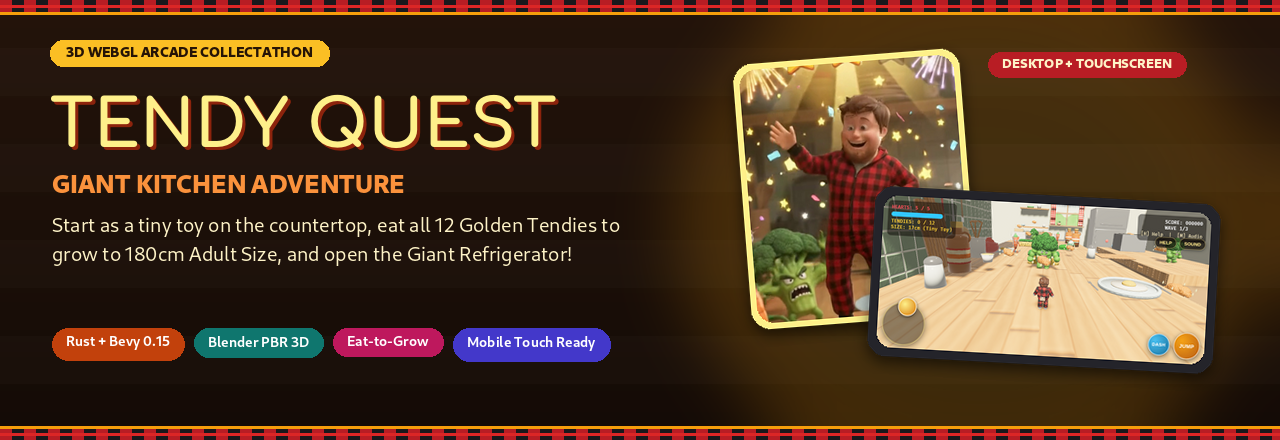
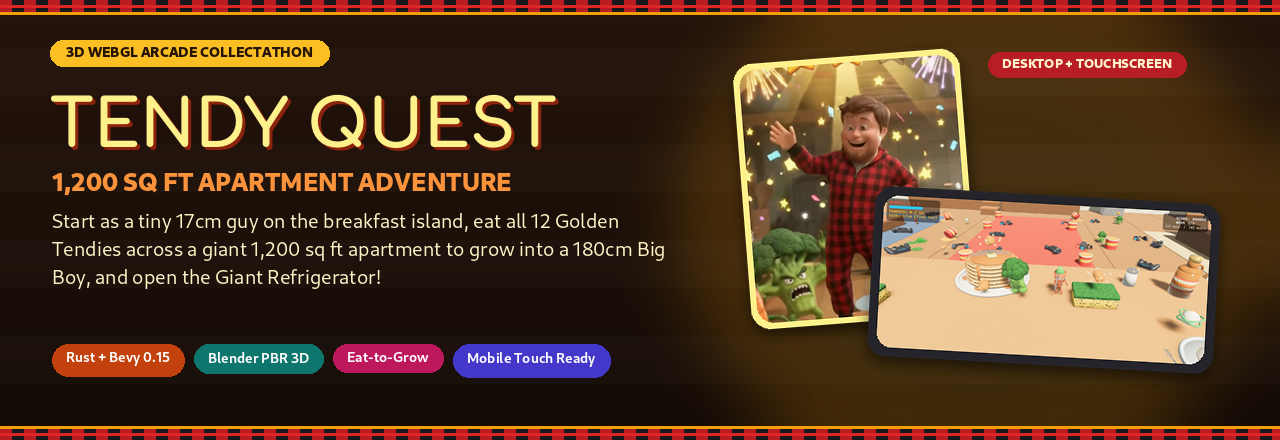
Reorganize README around eat-to-grow gameplay and add spoiler-free city preview

diff --git a/blender/build_readme_graphics.py b/blender/build_readme_graphics.py
@@ -13,9 +13,10 @@ ROOT = Path(__file__).resolve().parent.parent
 OUT_DIR = ROOT / "assets" / "readme"
 VIDEO_PATH = ROOT / "assets" / "video" / "gemini_generated_video_23f12819.mp4"
 
-SHOT_DESKTOP = Path("/tmp/tendy_live10_desktop.png")
-SHOT_WALKING = Path("/tmp/tendy_live10_walking2.png")
-SHOT_PORTRAIT = Path("/tmp/tendy_live10_mobile_port.png")
+SHOT_DESKTOP = Path("/home/tpeters/.gemini/antigravity-cli/brain/a57795ae-ab44-4094-bfb9-bebac1762ce7/scratch/desktop_playing.png")
+SHOT_WALKING = Path("/home/tpeters/.gemini/antigravity-cli/brain/a57795ae-ab44-4094-bfb9-bebac1762ce7/scratch/desktop_apartment_floor.png")
+SHOT_PORTRAIT = Path("/home/tpeters/.gemini/antigravity-cli/brain/a57795ae-ab44-4094-bfb9-bebac1762ce7/scratch/mobile_pixel11_playing.png")
+SHOT_CITY = Path("/home/tpeters/.gemini/antigravity-cli/brain/a57795ae-ab44-4094-bfb9-bebac1762ce7/scratch/desktop_city_aerial.png")
 
 FONT_DISPLAY = "/usr/share/fonts/aajohan-comfortaa-fonts/Comfortaa-Bold.otf"
 FONT_EXTRA = "/usr/share/fonts/abattis-cantarell-fonts/Cantarell-ExtraBold.otf"
@@ -30,7 +31,7 @@ def font(path: str, size: int) -> ImageFont.FreeTypeFont:
 def verify_inputs() -> None:
     missing = [
         str(p)
-        for p in [VIDEO_PATH, SHOT_DESKTOP, SHOT_WALKING, SHOT_PORTRAIT]
+        for p in [VIDEO_PATH, SHOT_DESKTOP, SHOT_WALKING, SHOT_PORTRAIT, SHOT_CITY]
         if not p.exists()
     ]
     if missing:
@@ -280,18 +281,19 @@ def build_hero_banner(v_hero: Image.Image) -> None:
     # Title with warm crisp drop shadow
     draw.text((53, 91), "TENDY QUEST", font=f_title, fill=(140, 35, 12, 255))
     draw.text((50, 88), "TENDY QUEST", font=f_title, fill=(254, 240, 138, 255))
-    draw.text((52, 168), "GIANT KITCHEN ADVENTURE", font=f_sub, fill=(251, 146, 60, 255))
+    draw.text((52, 166), "1,200 SQ FT APARTMENT ADVENTURE", font=f_sub, fill=(251, 146, 60, 255))
 
     tagline = (
-        "Start as a tiny toy on the countertop, eat all 12 Golden Tendies to grow to "
-        "180cm Adult Size, and open the Giant Refrigerator!"
+        "Start as a tiny 17cm guy on the breakfast island, eat all 12 Golden Tendies "
+        "across a giant 1,200 sq ft apartment to grow into a 180cm Big Boy, and open "
+        "the Giant Refrigerator!"
     )
-    ty = 212
-    for line in wrap_lines(draw, tagline, f_body, 610):
+    ty = 208
+    for line in wrap_lines(draw, tagline, f_body, 625):
         draw.text((52, ty), line, font=f_body, fill=(254, 243, 199, 245))
-        ty += 29
+        ty += 28
 
-    # Feature pills cleanly arranged in 2 balanced rows or 1 row if fitting
+    # Feature pills cleanly arranged in 1 row
     pills = [
         ("Rust + Bevy 0.15", (194, 65, 12, 245)),
         ("Blender PBR 3D", (15, 118, 110, 245)),
@@ -299,7 +301,7 @@ def build_hero_banner(v_hero: Image.Image) -> None:
         ("Mobile Touch Ready", (67, 56, 202, 245)),
     ]
     px_cur = 52
-    py_cur = 328
+    py_cur = 344
     for label, col in pills:
         pw = draw_pill(
             draw,
@@ -436,9 +438,9 @@ def build_gameplay_showcase() -> None:
     draw.rounded_rectangle([1130, 101, 1168, 106], radius=3, fill=(82, 82, 92, 255))
 
     captions = [
-        (274, "Desktop Browser", "Mouse 3D Look, WASD, Jump & Belly Dash"),
-        (782, "Mobile Landscape", "Virtual Stick, Swipe Look & DASH / JUMP"),
-        (1148, "Mobile Portrait", "Responsive Compact HUD View"),
+        (274, "Desktop Apartment View", "Mouse 3D Look, Scroll Zoom & Belly Dash"),
+        (782, "1,200 sq ft Open Floor", "Hunt Tendies Around Cheese Cups & Controllers"),
+        (1140, "Mobile Touch Portrait", "Compact HUD & Virtual Touch Controls"),
     ]
     for cx, c_title, c_sub in captions:
         b1 = draw.textbbox((0, 0), c_title, font=f_cap_title)
@@ -515,21 +517,21 @@ def build_cast_and_powerups(
     f_name = font(FONT_DISPLAY, 21)
     f_desc = font(FONT_REG, 15)
 
-    title = "MEET THE KITCHEN CREW, POWER-UPS & VEGGIE MONSTERS"
+    title = "MEET STAN, SAUCE POWER-UPS & VEGGIE MONSTERS"
     tb = draw.textbbox((0, 0), title, font=f_hdr)
     draw.text(((W - (tb[2] - tb[0])) // 2, 20), title, font=f_hdr, fill=(253, 230, 138, 255))
 
-    sub = "Know your allies, tasty buffs, and grumpy healthy-food adversaries on the countertop"
+    sub = "Eat crispy tenders to grow into a 180cm Big Boy while dodging grumpy greens"
     sb = draw.textbbox((0, 0), sub, font=f_sub)
     draw.text(((W - (sb[2] - sb[0])) // 2, 55), sub, font=f_sub, fill=(254, 215, 170, 225))
 
     cards = [
         {
-            "name": "Plaid Hero",
+            "name": "Stan (Plaid Hero)",
             "role": "HERO • PLAYABLE",
             "accent": (220, 38, 38, 255),
             "role_bg": (184, 29, 36, 255),
-            "desc": "Starts tiny and grows up to 180cm Adult Size! Double-Jump, i-frame Belly Dash, and bowl veggies aside.",
+            "desc": "Starts as a tiny 17cm guy and eats tendies to grow into a 180cm Big Boy! Double-Jump, Belly Dash, and bowl veggies aside.",
             "img": v_hero.crop((185, 435, 505, 835)),
         },
         {
@@ -537,7 +539,7 @@ def build_cast_and_powerups(
             "role": "COLLECTIBLE",
             "accent": (245, 158, 11, 255),
             "role_bg": (180, 83, 9, 255),
-            "desc": "12 crispy tenders across the giant kitchen (+150 pts each). Grow to 180cm & open the Giant Fridge (+5000 pts)!",
+            "desc": "12 crispy tenders across the 1,200 sq ft apartment (+150 pts each). Eat them all to become a Big Boy & open the Giant Fridge!",
             "img": v_tendy_slime.crop((240, 175, 500, 445)),
         },
         {
@@ -631,6 +633,15 @@ def build_cast_and_powerups(
     print(f"Generated {out.name}")
 
 
+def build_city_preview() -> None:
+    """Crop a spoiler-free skyline preview from the city screenshot (no subtitle/UI spoilers)."""
+    im_city = Image.open(SHOT_CITY).convert("RGB")
+    cropped = im_city.crop((0, 0, min(1280, im_city.width), min(515, im_city.height)))
+    out = OUT_DIR / "city_preview.png"
+    cropped.save(out, quality=95)
+    print(f"Generated {out.name} ({cropped.size[0]}x{cropped.size[1]})")
+
+
 def main() -> int:
     verify_inputs()
     OUT_DIR.mkdir(parents=True, exist_ok=True)
@@ -647,6 +658,7 @@ def main() -> int:
         build_hero_banner(v_hero)
         build_gameplay_showcase()
         build_cast_and_powerups(v_broccoli, v_carrot, v_tendy_slime, v_hero)
+        build_city_preview()
 
     print("All README assets generated successfully in", OUT_DIR)
     return 0

diff --git a/README.md b/README.md
@@ -1,5 +1,5 @@
 <p align="center">
-  <img src="assets/readme/hero_banner.png" alt="Tendy Quest: Giant Kitchen Adventure" width="100%" />
+  <img src="assets/readme/hero_banner.png" alt="Tendy Quest: 1,200 Sq Ft Apartment Adventure" width="100%" />
 </p>
 
 <p align="center">
@@ -18,60 +18,84 @@
 
 ---
 
-## About the Game
+## Welcome to Tendy Quest! (Eat Tendies, Grow Into a Big Boy)
 
-Start shrunk down to miniature **17cm Tiny Toy** size (`0.55` scale) on a colossal **Giant Kitchen** countertop as the **Plaid Hero**! Armed with a red-and-black buffalo plaid onesie, acrobatic **Double-Jumps**, and an invulnerable **Belly Dash**, your mission is to eat all **12 Golden Tendies** across a multi-scale Katamari-style room—climbing from countertops and the giant toaster up to the shelf, across the cutting-board bridge to the center island, and down stepping stools, dining chair, and table to the **kitchen floor**.
+Start shrunk down to miniature **17cm Tiny Toy** size (`0.55` scale) right next to a stack of pancakes on the **Breakfast Island** of a massive **1,200 sq ft Open-Concept Apartment**! As **Stan (the Plaid Hero)**, you've got cozy red-and-black buffalo plaid pajamas, springy **Double-Jumps**, a speedy **Belly Dash**, and one simple mission: **eat all 12 Golden Tendies and grow up to be a Big Boy!**
 
-Each Golden Tendy physically grows your hero taller, faster, and stronger—scaling jump height, pickup reach, and camera pullback all the way up to **180cm Full Adult Size** (`6.0` scale), where you can bowl Veggie Monsters straight out of your path and pull open the towering **Giant Refrigerator** on the floor!
+Every crispy chicken tender you gobble down physically stretches Stan taller, faster, and stronger—scaling jump height, pickup reach, and camera pullback step by step until you hit **180cm Full Adult Size** (`6.0` scale). Once you're a full-grown Big Boy, grumpy veggies bounce right out of your way and you're finally tall enough to swing open the **Giant Refrigerator**!
 
 <table>
   <tr>
     <td valign="top">
-      <h3>Core Gameplay Loop</h3>
+      <h3>Core Eat-to-Grow Gameplay</h3>
       <ul>
-        <li><strong>Eat-to-Grow Across 12 Golden Tendies:</strong> Hunt down floating crispy tenders across the prep countertop, toaster &amp; upper shelf, island bridge, stools, dining table &amp; chair, and floor (<code>+150 pts</code> each, <code>+1,000 pts</code> bonus when reaching <code>12/12</code>).</li>
-        <li><strong>Scale Up &amp; Turn the Tables:</strong> Once your hero grows past <code>2.2</code> scale, you shrug off Kale Slime slowdowns and bowl over Broccoli Brutes &amp; Carrot Lancers on contact (<code>+250 pts</code>)!</li>
-        <li><strong>Open the Giant Refrigerator:</strong> Reach <strong>180cm Adult Size</strong> (<code>12/12</code> Tendies), drop down to the kitchen floor, and approach the Giant Fridge handle to swing its stocked door wide open (<code>+5,000 pts</code> Stage Clear!).</li>
-        <li><strong>Survive 3 Escalating Waves:</strong> Reinforcements arrive every 16 seconds across the countertop, center island, and kitchen floor.</li>
-        <li><strong>Instant Browser &amp; Mobile Play:</strong> Compiles to Rust + WebAssembly + WebGL2 with responsive <code>100dvh</code> portrait/landscape HUD and multi-touch controls tested on Pixel 11 viewports.</li>
+        <li><strong>Hunt 12 Golden Tendies Across 1,200 Sq Ft:</strong> Leap around the South Breakfast Island, bound down to the sprawling hardwood floor, weave through the Living Room and Dining Area, and climb back up the North Kitchen Countertop (<code>+150 pts</code> per tendy, plus a <code>+1,000 pts</code> Big Boy bonus at <code>12/12</code>).</li>
+        <li><strong>Grow From Little Guy to 180cm Big Boy:</strong> Watch Stan level up from <strong>Tiny Toy</strong> (<code>0–3</code> Tendies) &rarr; <strong>Counter Climber</strong> (<code>4–7</code>) &rarr; <strong>Kid Size</strong> (<code>8–11</code>) &rarr; <strong>180cm Big Boy</strong> (<code>12/12</code>).</li>
+        <li><strong>Turn the Tables on Veggies:</strong> Once Stan grows past <code>2.2</code> scale, he shrugs off sticky Kale Slime puddles and bowls Broccoli Brutes &amp; Carrot Lancers right across the room on contact (<code>+250 pts</code>)!</li>
+        <li><strong>Open the Giant Refrigerator:</strong> At full <strong>180cm</strong> height, walk right up to the towering fridge on the north side of the apartment and yank its door wide open (<code>+5,000 pts</code>)!</li>
+        <li><strong>Navigate Apartment Clutter &amp; 3 Veggie Waves:</strong> Hop over scattered <strong>Ricos Nacho Cheese Cups</strong>, wireless <strong>Game Controllers</strong>, and floor <strong>Headphones</strong> while veggie reinforcements spawn up to Wave 3 every 16 seconds.</li>
       </ul>
     </td>
     <td width="250" align="center" valign="middle">
-      <img src="assets/readme/kitchen_dance.gif" alt="Plaid Hero dashing past Broccoli Brutes and Carrot Lancers in the Giant Kitchen" width="230" />
+      <img src="assets/readme/kitchen_dance.gif" alt="Stan celebrating and dodging veggies in his plaid pajamas" width="230" />
       <br/>
-      <sub><em>Inspired by the Giant Kitchen concept video</em></sub>
+      <sub><em>Stan gearing up for snack time</em></sub>
     </td>
   </tr>
 </table>
 
+### Growth Milestones
+
+| Tendies Eaten | Size Tier | Stan's Height | What Changes |
+| :---: | :--- | :--- | :--- |
+| `0 – 3` | **Tiny Toy** | Starts at **17cm** (`0.55` scale) | Cozy bite-sized adventurer dodging towering forks and giant pancakes. |
+| `4 – 7` | **Counter Climber** | Climbing upward | Faster stride, higher jumps, and wider reach across apartment furniture. |
+| `8 – 11` | **Kid Size** | Past `2.2` scale | Sticky Kale Slime puddles stop slowing you down, and veggies get knocked flying! |
+| `12 / 12` | **ADULT - OPEN FRIDGE!** | **180cm Big Boy** (`6.0` scale) | Full grown! Tall enough to reach the handle on the **Giant Refrigerator**. |
+
 ---
 
-## Screenshots — Desktop & Mobile Touch
+## Play Anywhere — Desktop & Mobile Touch
 
-Play seamlessly on a widescreen desktop browser or straight from your phone's touchscreen with zero downloads:
+Hop straight in with zero downloads! Compiled to Rust + WebAssembly + WebGL2 with responsive `100dvh` portrait/landscape layouts, scroll-wheel zoom on desktop, and touch controls tested on Pixel 11 phones:
 
 <p align="center">
-  <img src="assets/readme/gameplay_showcase.png" alt="Tendy Quest running on Desktop Browser, Mobile Landscape, and Mobile Portrait" width="100%" />
+  <img src="assets/readme/gameplay_showcase.png" alt="Tendy Quest running on Desktop Browser, 1,200 sq ft Open Floor, and Mobile Portrait" width="100%" />
 </p>
 
 ---
 
-## Characters, Power-Ups & Veggie Monsters
+## Meet Stan, Sauce Buffs & the Grumpy Veggies
 
 <p align="center">
-  <img src="assets/readme/cast_and_powerups.png" alt="Meet the Kitchen Crew, Power-Ups & Veggie Monsters" width="100%" />
+  <img src="assets/readme/cast_and_powerups.png" alt="Meet Stan, Sauce Power-Ups & Veggie Monsters" width="100%" />
 </p>
 
 | Entity | Role | Mechanics & Stats |
 | :--- | :--- | :--- |
-| **Plaid Hero** | Playable Hero | Starts with **5 Hearts** at **17cm Tiny Toy** (`0.55` scale) and grows to **180cm Adult** (`6.0` scale). Features size-scaled speed, **Double-Jump**, a regenerating **Belly Dash**, and a celebratory **Victory Dance**. |
-| **Golden Tendy** | Growth Collectible | **12 total** spread across countertop, toaster, upper shelf, island, stepping stools, dining chair/table, and floor (`+150 pts` each). Reaching `12/12` unlocks the **Giant Refrigerator** door goal (`+5,000 pts`). |
-| **Giant Refrigerator** | Final Goal | Towering floor-level fridge at `(13.5, -6.0, -18.5)` with hinged stocked door. Only **Full Adult Size** (`12/12` Tendies) is tall enough to swing it open and trigger **Stage Clear**! |
-| **Honey Mustard Cup** | Speed Power-Up | Grants **10 seconds** of **1.75× movement speed** for zooming past hazards and grabbing out-of-reach tendies. |
-| **Ranch Shield** | Defense Power-Up | Surrounds you in a creamy **1-hit protective bubble** that absorbs incoming veggie damage and knocks attackers back. |
-| **Broccoli Brute** | Heavy Tank | Patrols key routes at 2.2 speed and charges aggressively (3.8 speed) whenever you enter its **9.0m** range. |
-| **Carrot Lancer** | Fast Charger | Locks onto your line of sight within **10.5m**, **telegraphs for 0.8s** with raised fork, then **lunges at 11.5 speed** before a brief stun recovery. |
-| **Kale Slime** | Area Denial Hazard | Glides along the countertop dropping temporary **Fiber Puddles** every 1.4s that slow your footsteps by **40%**. |
+| **Stan (Plaid Hero)** | Playable Hero | Starts with **5 Hearts** at **17cm Tiny Toy** size and grows into a **180cm Big Boy** (`6.0` scale). Features size-scaled speed, **Double-Jump**, a regenerating **Belly Dash**, and a celebratory **Victory Dance**. |
+| **Golden Tendy** | Growth Snack | **12 total** hidden across the Breakfast Island, 1,200 sq ft floor, and Kitchen Counter (`+150 pts` each). Collect `12/12` to reach full **180cm** height! |
+| **Giant Refrigerator** | Apartment Goal | Towering fridge waiting by the North Kitchen wall—only a full-grown **180cm Big Boy** can reach high enough to swing open the door (`+5,000 pts`)! |
+| **Honey Mustard Cup** | Speed Buff | Grants **10 seconds** of **1.75&times; movement speed** for zooming across the apartment floor. |
+| **Ranch Bubble Shield** | Defense Buff | Wraps Stan in a creamy **1-hit protective bubble** that absorbs veggie damage and knocks attackers back. |
+| **Broccoli Brute** | Heavy Tank | Patrols key apartment zones at `2.2` speed and charges at `3.8` speed whenever Stan enters its `9.0m` range. |
+| **Carrot Lancer** | Fast Charger | Locks on within `10.5m`, telegraphs for `0.8s`, and lunges forward at `11.5` speed with a 4-tine fork! |
+| **Kale Slime** | Floor Hazard | Glides around leaving sticky **Fiber Puddles** every `1.4s` that slow down tiny Stan (until he grows big enough to brush them off). |
+| **Apartment Floor Clutter** | Obstacles | Randomized **Ricos Nacho Cheese Cups** (upright &amp; spilled!), **Game Controllers**, and **Headphones** scattered across the 1,200 sq ft apartment—watch your step! |
+
+---
+
+## Future Mechanic Sneak Peek — Heading Out to the City to Meet Friends
+
+<p align="center">
+  <img src="assets/readme/city_preview.png" alt="Future City Mechanic Preview — Heading Outside to Meet Friends" width="100%" />
+</p>
+
+<p align="center">
+  <sub><em>A work-in-progress glimpse beyond the apartment doors!</em></sub>
+</p>
+
+As an upcoming future mechanic once Stan finishes eating all his apartment tendies and grows into a proper **Big Boy**, the adventure will continue outside into the wider city where Stan can explore bustling streets and **meet up with his friends**!
 
 ---
 
@@ -79,16 +103,16 @@ Play seamlessly on a widescreen desktop browser or straight from your phone's to
 
 | Desktop (Mouse + Keyboard) | Mobile / Tablet (Touch Screen) |
 | :--- | :--- |
-| <ul><li>**Move:** `W A S D` or Arrow Keys</li><li>**3D Camera Look:** Move Mouse (`Click` locks cursor, `Esc` unlocks)</li><li>**Camera Zoom:** Mouse Scroll Wheel</li><li>**Jump / Double-Jump:** `Space`</li><li>**Belly Dash:** `Shift` (Left or Right)</li><li>**Controls / Tutorial:** `H`</li><li>**Mute / Unmute Audio:** `M`</li><li>**Start / Play Again:** `Space`, `Enter`, or `Click` button</li></ul> | <ul><li>**Move:** Bottom-left **Virtual Thumbstick** (full 360° analog speed)</li><li>**3D Camera Look:** **Swipe / Drag** anywhere on the viewport (simultaneous with walking!)</li><li>**Jump / Double-Jump:** Tap the golden **JUMP** button</li><li>**Belly Dash:** Tap the cyan **DASH** button</li><li>**Controls / Tutorial:** Tap **HELP** pill</li><li>**Mute / Unmute Audio:** Tap **SOUND** pill</li><li>**Start / Play Again:** Tap **anywhere** on the overlay</li></ul> |
+| <ul><li>**Move:** `W A S D` or Arrow Keys</li><li>**3D Camera Look:** Move Mouse (`Click` locks cursor, `Esc` unlocks)</li><li>**Camera Zoom:** Mouse Scroll Wheel</li><li>**Jump / Double-Jump:** `Space`</li><li>**Belly Dash:** `Shift` (Left or Right)</li><li>**Controls / Tutorial:** `H`</li><li>**Mute / Unmute Audio:** `M`</li><li>**Start / Play Again:** `Space`, `Enter`, or `Click` button</li></ul> | <ul><li>**Move:** Bottom-left **Virtual Thumbstick** (full 360&deg; analog speed)</li><li>**3D Camera Look:** **Swipe / Drag** anywhere on the viewport (simultaneous with walking!)</li><li>**Camera Zoom:** Two-finger **Pinch** (active when thumbstick is released)</li><li>**Jump / Double-Jump:** Tap **JUMP**</li><li>**Belly Dash:** Tap **DASH**</li><li>**Controls / Tutorial:** Tap **HELP**</li><li>**Mute / Unmute Audio:** Tap **SOUND**</li><li>**Start / Play Again:** Tap **anywhere** on the overlay</li></ul> |
 
 ---
 
 ## Music & Sound Effects
 
-Tendy Quest features a custom WebAudio soundtrack and positional SFX pipeline wired from Rust via `wasm-bindgen` (automatically unlocked on your first click, key press, or touch):
+Tendy Quest includes a custom WebAudio soundtrack and positional SFX pipeline wired from Rust via `wasm-bindgen` (unlocked automatically on your first click, keypress, or tap):
 
-- **Background Music:** [`assets/audio/tendies_from_the_sun.mp3`](assets/audio/tendies_from_the_sun.mp3) — upbeat 16-bar **125 BPM Bubblegum Pop** synth loop.
-- **Kitchen Ambience:** [`assets/audio/kitchen_ambience.mp3`](assets/audio/kitchen_ambience.mp3) — crossfade-looped room ambience extracted from the reference kitchen clip.
+- **Background Music:** [`assets/audio/tendies_from_the_sun.mp3`](assets/audio/tendies_from_the_sun.mp3) — upbeat Bubblegum Pop synth loop.
+- **Apartment Ambience:** [`assets/audio/kitchen_ambience.mp3`](assets/audio/kitchen_ambience.mp3) — crossfade-looped room ambience.
 - **11 Stereo Sound Effects (`.wav`):** `jump`, `double_jump`, `dash`, `tendy`, `powerup`, `hit`, `shield`, `step`, `lunge`, `win`, and `lose`.
 
 ---
@@ -97,7 +121,7 @@ Tendy Quest features a custom WebAudio soundtrack and positional SFX pipeline wi
 
 - **Engine:** [Rust](https://www.rust-lang.org/) + [Bevy 0.15](https://bevyengine.org/) (`webgl2`, `bevy_gltf`, `bevy_pbr`, `bevy_ui`)
 - **Web Packaging:** [`trunk`](https://trunkrs.dev/) + `wasm-bindgen` deploying static artifacts from `dist/web/` to GitHub Pages
-- **3D & Media Pipeline:** Python-scripted Blender 5.x procedural PBR `.glb` models ([`blender/build_tendy_quest_assets.py`](blender/build_tendy_quest_assets.py)), NumPy/`ffmpeg` audio synthesis ([`blender/build_tendy_quest_audio.py`](blender/build_tendy_quest_audio.py)), and Pillow/`ffmpeg` README graphics ([`blender/build_readme_graphics.py`](blender/build_readme_graphics.py))
+- **3D & Media Pipeline:** Python-scripted Blender PBR `.glb` models ([`blender/build_tendy_quest_assets.py`](blender/build_tendy_quest_assets.py)), NumPy/`ffmpeg` audio synthesis ([`blender/build_tendy_quest_audio.py`](blender/build_tendy_quest_audio.py)), and Pillow/`ffmpeg` README graphics ([`blender/build_readme_graphics.py`](blender/build_readme_graphics.py))
 
 ### Prerequisites
 
@@ -123,19 +147,19 @@ trunk build --release --public-url ./ --dist ../dist/web
 ### Regenerate 3D Models, Audio & README Graphics (Optional)
 
 ```bash
-# Regenerate all 14 articulated PBR .glb models in assets/models/
+# Regenerate all articulated PBR .glb models in assets/models/
 blender --background --python blender/build_tendy_quest_assets.py
 
 # Regenerate background music & 11 stereo SFX in assets/audio/
 python3 blender/build_tendy_quest_audio.py
 
-# Regenerate README banners, showcase panels & GIF in assets/readme/
+# Regenerate README banners, showcase panels, city preview & GIF in assets/readme/
 python3 blender/build_readme_graphics.py
 ```
 
 ---
 
 <p align="center">
-  <strong>Grab a golden tendy and watch out for steamed veggies!</strong><br/>
+  <strong>Grab a golden tendy, grow into a Big Boy, and watch out for steamed veggies!</strong><br/>
   <a href="https://sircharlesxx.github.io/tendy-quest/">Play Tendy Quest Live &rarr;</a>
 </p>
